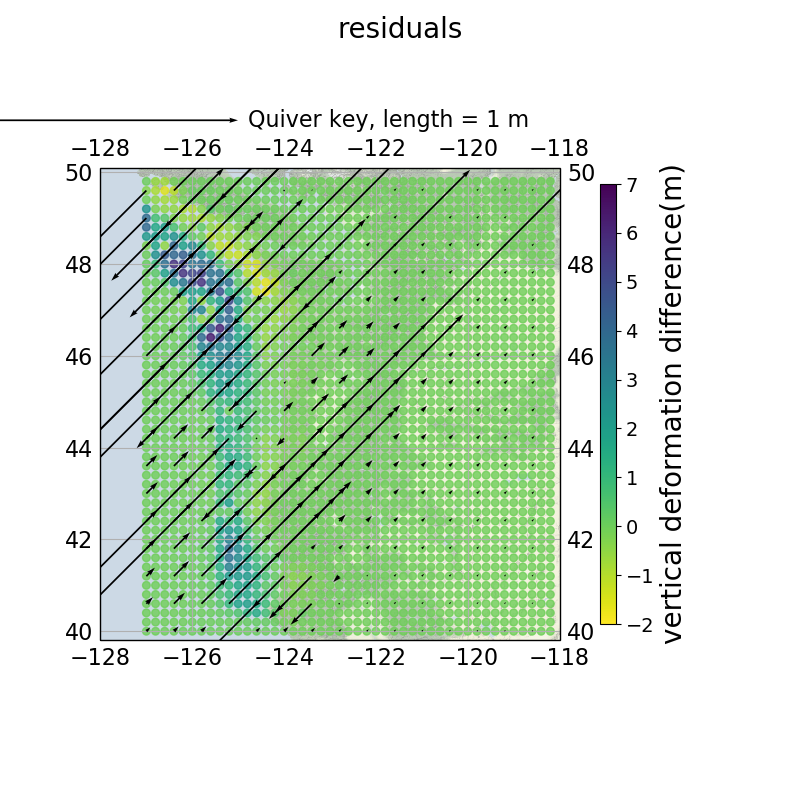
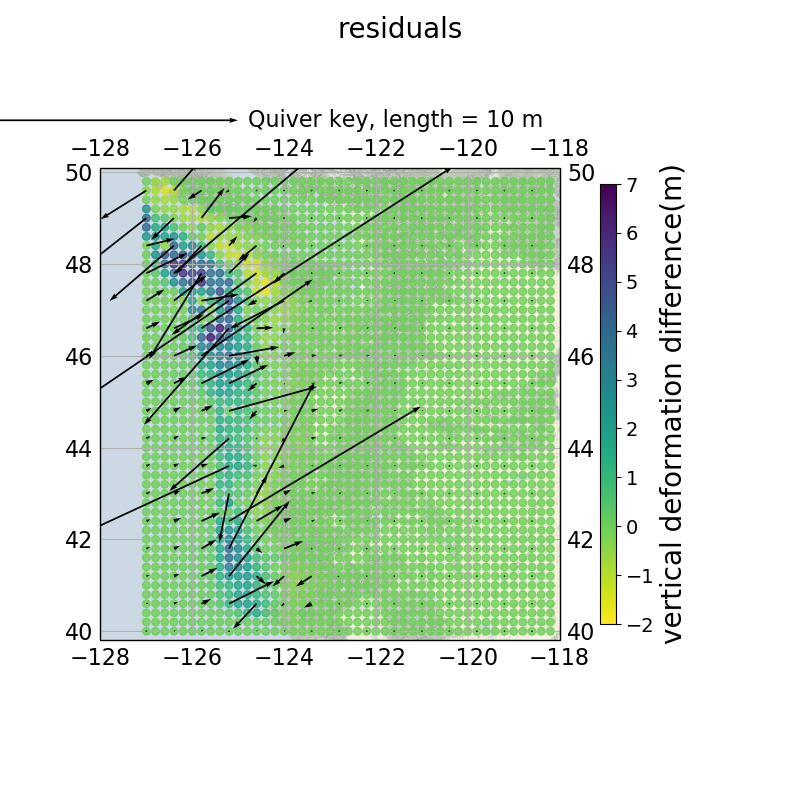
quiver

diff --git a/plotting.py b/plotting.py
@@ -66,9 +66,9 @@ def plot_deformation_map(lon, lat, uxg,uyg,uzg,title, label):#and maybe arrow po
     
     X, Y = np.meshgrid(lon[0][::3],lat[:,0][::3])
     U = uxg[::3, ::3].flatten()
-    V = uxg[::3, ::3].flatten()
+    V = uyg[::3, ::3].flatten()
     q = plt.quiver(X, Y, U, V, zorder = 1000, transform=ccrs.PlateCarree())
-    plt.quiverkey(q, X=0.3, Y=1.1, U=5, label='Quiver key, length = 1 m', labelpos='E')
+    plt.quiverkey(q, X=0.3, Y=1.1, U=10, label='Quiver key, length = 10 m', labelpos='E')
 #    X, Y = np.meshgrid(lon[0],lat[:,0])
 #    U = uxg.flatten()
 #    V = uxg.flatten()
@@ -100,7 +100,7 @@ def plot_patches(lat,lon, sslen, dslen,c, label):#and maybe arrow points of deci
     ax.set_extent([-128.01, -117.99, 39.8, 50.1])
     
     cmap = mpl.cm.get_cmap('viridis')
-    normalize = mpl.colors.Normalize(vmin=min(c), vmax=max(c))
+    normalize = mpl.colors.Normalize(vmin=0, vmax=15)
 
     colors = [cmap(normalize(value)) for value in c]
     s_m = mpl.cm.ScalarMappable(cmap = cmap, norm=normalize)
